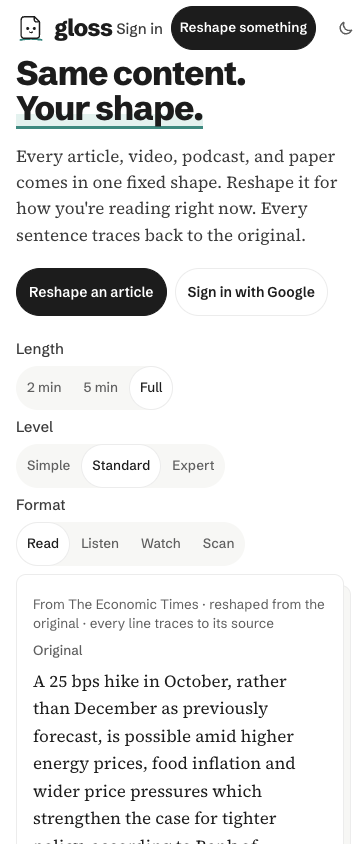
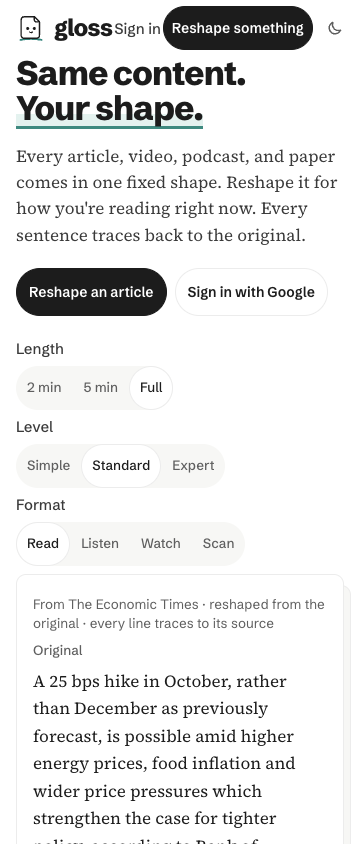
landing v2: bar fits at 360 without a type change, right-edge check, evidence re-shot

Changed region(s): [[0.3056, 0.0, 0.8861, 0.0616], [0.9167, 0.0308, 0.9778, 0.0616]]

diff --git a/apps/web/src/landing/v2/v2.css b/apps/web/src/landing/v2/v2.css
@@ -86,18 +86,21 @@
 }
 
 /* "Reshape something" is longer than the landing's "Try the demo": on phones keep each bar item on
-   one line (scoped to /v2; the landing at / is untouched). */
+   one line and inside the screen down to 360 px, without changing type (scoped to /v2; / is untouched). */
 @media (max-width: 480px) {
   .lp2 .lp-nav__link,
   .lp2 .lp-nav__cta {
     white-space: nowrap;
   }
+  .lp2 .lp-nav {
+    gap: 0;
+  }
   .lp2 .lp-nav__link {
-    padding: 0 var(--s1);
+    padding: 0 2px;
   }
   .lp2 .lp-nav__cta {
+    margin: 0;
     padding: 0 var(--s2);
-    font-size: 13.5px;
   }
 }
 

diff --git a/tools/shots/landing_v2.py b/tools/shots/landing_v2.py
@@ -87,6 +87,10 @@ async def main() -> None:
                 # Every bar item on one line: no taller than its 44 px row.
                 report[key]["bar items taller than 44px"] = await p.eval("""[...document.querySelectorAll('.lp-nav > *')]
                   .filter(e => e.getBoundingClientRect().height > 46).map(e => e.textContent.trim())""")
+                # And inside the screen: no bar item's right edge past the viewport.
+                report[key]["bar items past the right edge"] = await p.eval("""[...document.querySelectorAll('.lp-bar a, .lp-bar button')]
+                  .filter(e => e.getBoundingClientRect().right > document.documentElement.clientWidth)
+                  .map(e => (e.getAttribute('aria-label') || e.textContent.trim()) + ' ' + Math.round(e.getBoundingClientRect().right))""")
                 (OUT / f"v2-{width}-{'dark' if dark else 'light'}.png").write_bytes(await shot_bytes(p))
         # Motion on: choosing 2 min animates the lines that stay (the 300 ms FLIP).
         await view(p, base, 1440, motion=True)
